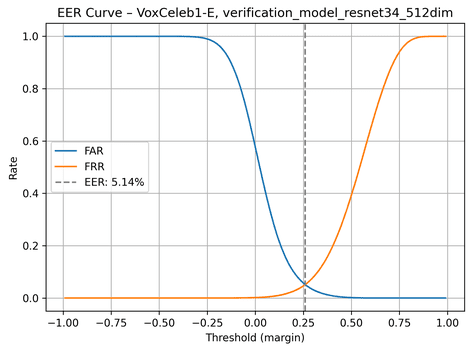
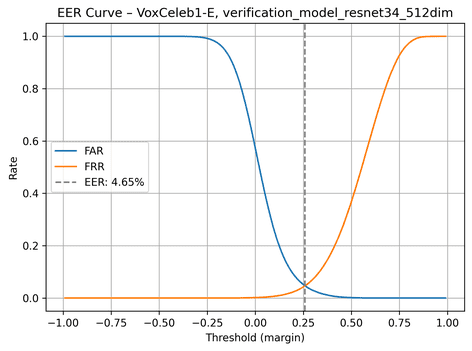
Add EER plots, update README and figures, update requirements

diff --git a/README.md b/README.md
@@ -21,7 +21,7 @@ The goal of this project was to **reproduce and improve upon state-of-the-art sp
   - Developed modular, extensible classes supporting various state-of-the-art loss functions and compared several approaches:
     - **[Contrastive Learning](https://arxiv.org/abs/1503.03832):** Custom pair generation, cosine similarity matrix, custom contrastive loss (inspired by FaceNet, DeepFace, Siamese Networks). Reduced EER to 10%.
     - **Large Margin Cosine Loss ([CosFace](https://arxiv.org/abs/1801.09414)):** Implemented custom CosineLayer and LMCLoss. Achieved 9% EER.
-    - **Adaptive Cosine Loss ([AdaCos](https://arxiv.org/abs/1905.00292)):** Built AdaCosLoss layer; reached **7.5% EER** with further improvements (BatchNorm freezing, etc.).
+    - **Adaptive Cosine Loss ([AdaCos](https://arxiv.org/abs/1905.00292)):** Built AdaCosLoss layer; reached **7.5% EER** with further improvements (BatchNorm layers freezing, etc.).
     - **Lightweight Models:** Evaluated MobileNetV2 (~5M params, EER ~10%) and ResNet18 to enable more frequent training and rapid iteration on my available hardware (Nvidia RTX 3060 GPU), as larger models required long training times.
 
 ### Key Takeaways
@@ -35,16 +35,41 @@ The goal of this project was to **reproduce and improve upon state-of-the-art sp
 
 ## Final results
 
-#### **Model Performance – Equal Error Rate (EER)**
+### **Model Performance – Equal Error Rate (EER)**
 
 | Model name                         | Test Set      | EER (%)   | Threshold |
 |------------------------------------|---------------|-----------|-----------|
-| verification_model_resnet34_512dim | VoxCeleb1-E   | **4.86**  | 0.2595    |
-| verification_model_resnet34_512dim | VoxCeleb1-H   | 8.06      | 0.3082    |
+| verification_model_resnet34_512dim | VoxCeleb1-E   | **4.65**  | 0.2587    |
+| verification_model_resnet34_512dim | VoxCeleb1-H   | 7.74      | 0.3099    |
 | verification_model_resnet18_512dim | VoxCeleb1-E   | **5.50**  | 0.2586    |
 | verification_model_resnet18_512dim | VoxCeleb1-H   | 8.65      | 0.3050    |
  
-#### EER Curve Plots
+### EER Curve Plots
+
+Below are the Equal Error Rate plots from two training runs of the ResNet34-based speaker verification model. The EER was measured and logged on-the-fly by a custom callback and visualized in TensorBoard.
+
+**Main Training**
+
+#### Configuration:
+- Optimizer: SGD (`learning_rate=0.01`, `momentum=0.9`, `weight_decay=5e-4`)
+- Dynamic LR adjustment: `ReduceLROnPlateau`
+- Loss: AdaCosLoss
+- 10 training epochs
+
+#### EER plot (main training):
+![EER plot - main training](figures/EER_train1.png)
+
+**Finetuning**
+
+#### Configuration:
+- Optimizer: SGD (`learning_rate=0.0001`, `momentum=0.9`, `weight_decay=1e-2`)
+- Learning Rate Scheduler: LR reduced by 10x after each epoch
+- BatchNormalization layers frozen (other layers trainable)
+- Loss: AdaCosLoss
+- 4 training epochs
+
+#### EER plot (finetuning):
+![EER plot - finetuning](figures/EER_train2.png)
 
 - **ResNet-18**
   - [VoxCeleb1-E](figures/18eer_voxceleb1E.png)
@@ -91,7 +116,7 @@ python scripts/dataset_download.py \
 | Model                                | Base Architecture | File ID (Google Drive)            |
 | ------------------------------------ | ----------------- | --------------------------------- |
 | verification_model_resnet18_512dim   | ResNet-18         | 18dfDMvbuVP4P_Zf5FI85VSDvmReMmOTk |
-| verification_model_resnet34_512dim   | ResNet-34         | 1fMk27d0ULfB1DLyNuNI9PnVd-2PlCuVz |
+| verification_model_resnet34_512dim   | ResNet-34         | 160zM6_4dQY3IlrSaOIkW_bNGenRLqyP0 |
 
 ```sh
 python scripts/model_download.py --file_id 1ZFC-GnW6Z-zzZUh-hZoiEyIOw79xXojt --output models/pretrained_resnet18.keras
